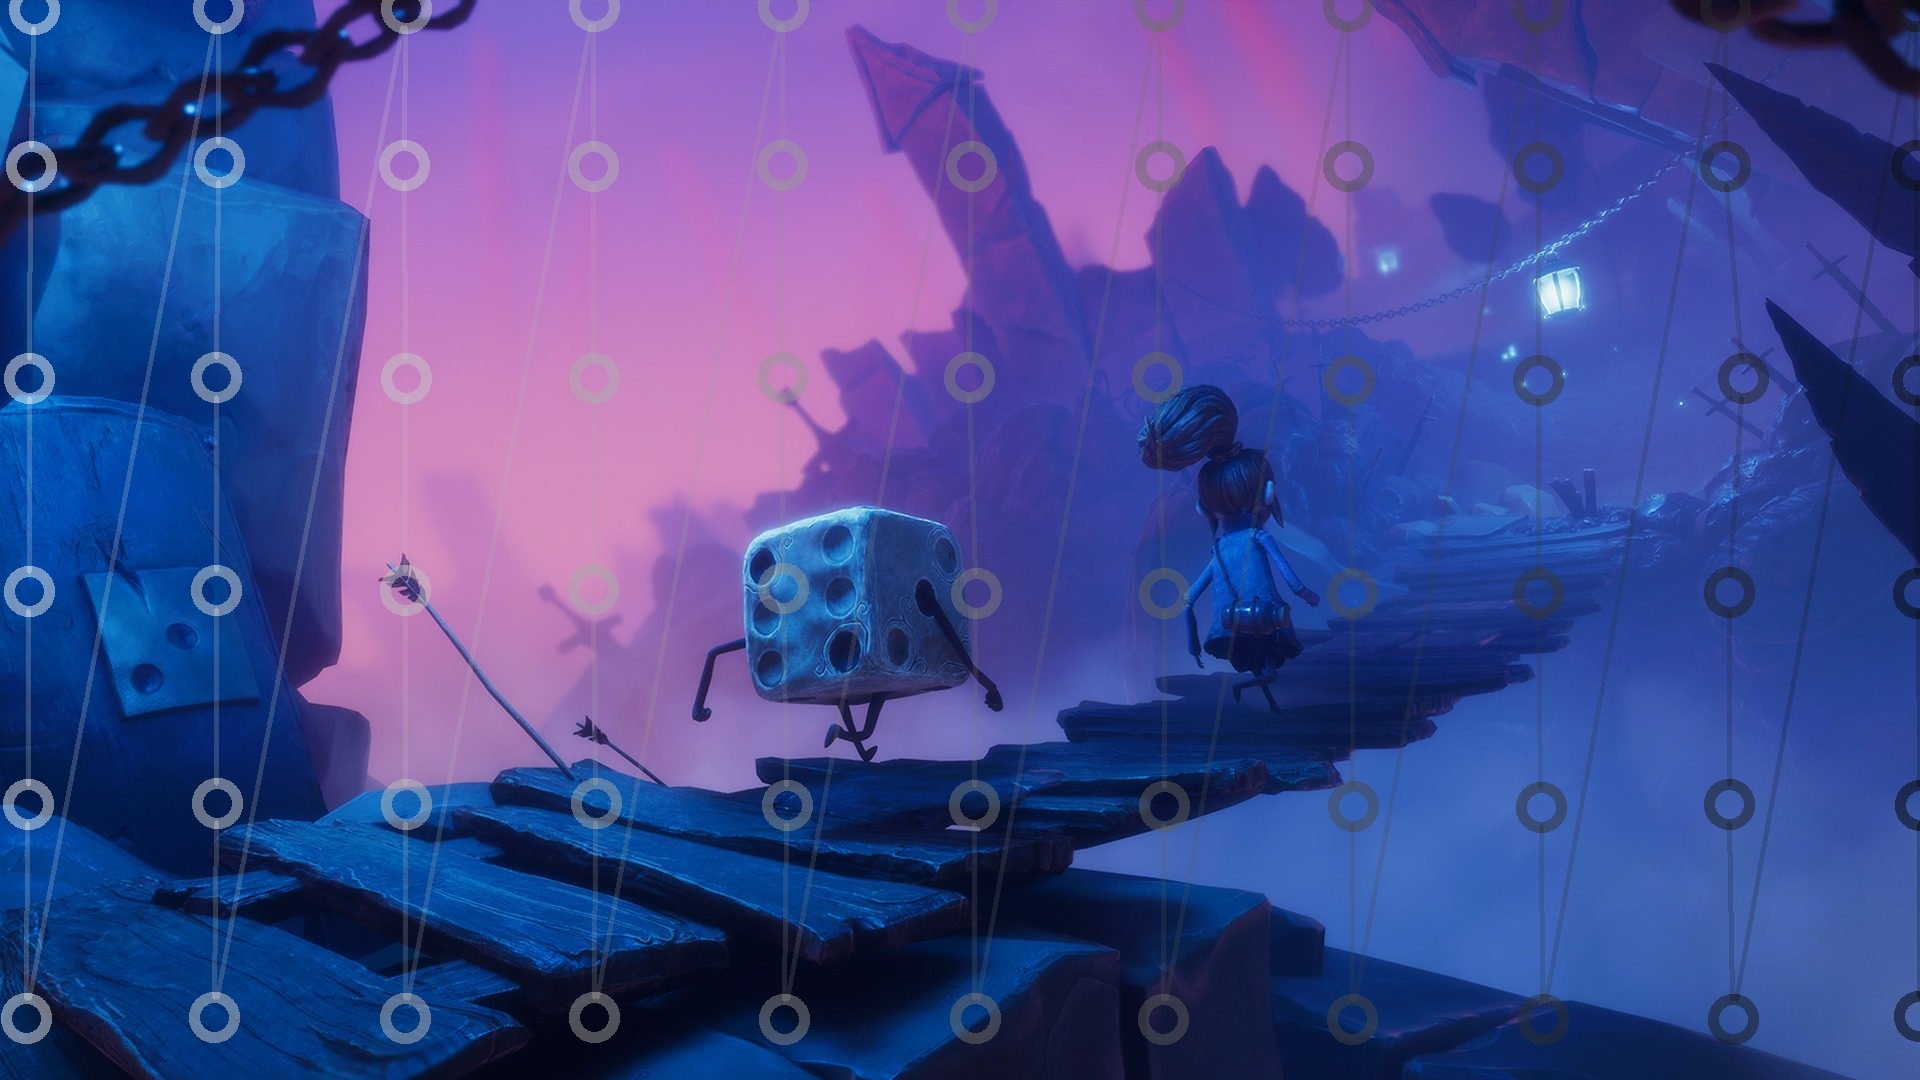
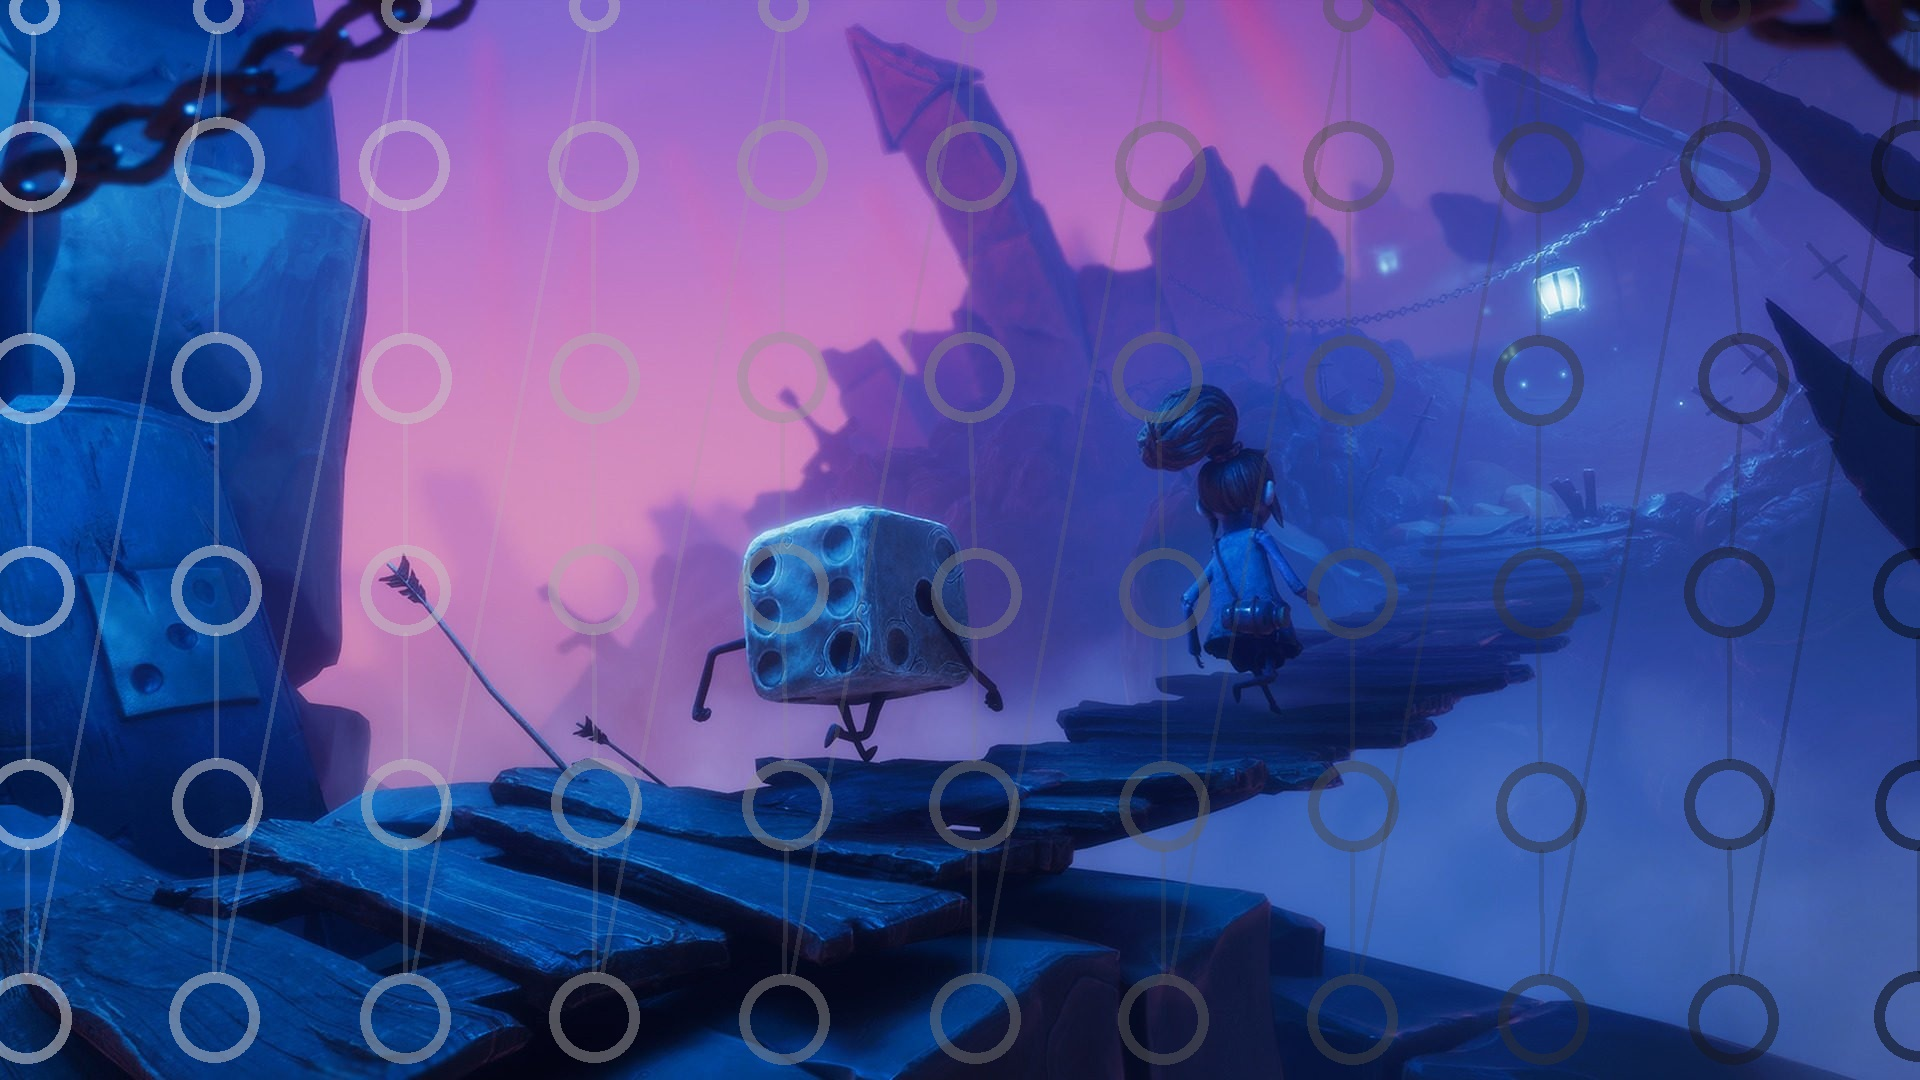
feat: added different circle size for scanpath

diff --git a/scanpath.py b/scanpath.py
@@ -15,6 +15,7 @@ def convert_uv_to_px(uv_data, width, height):
 overlay_circles = image.copy()
 overlay_lines = image.copy()
 alpha_circles = 0.6
+outline_width = 10
 alpha_lines = 0.2
 TEXT_FACE = cv2.FONT_HERSHEY_SIMPLEX
 TEXT_SCALE = 0.8
@@ -23,7 +24,7 @@ TEXT_COLOR = (0, 0, 0)
 
 points_group = {}
 colors = {}
-threshold = 150
+threshold = 50
 order = 0
 
 with open(input_path) as f:
@@ -68,27 +69,45 @@ for key in points_group:
     points_group[key]['middle']['y'] = y
     points_group[key]['diameter'] = 20
     
-    
-# TODO: lepši sposob ako spraviť velkosť kruhu na zaklade počtu bodov v skupine
-# TODO: preto pokial mam jeden tak ono to nejako dojebe
-# q1_index = int(len(points_group) * 0.25)
-# q2_index = int(len(points_group) * 0.5)
-# q3_index = int(len(points_group) * 0.75)
 
-# q1 = points_group_keys[:q1_index]
-# q2 = points_group_keys[q1_index:q2_index]
-# q3 = points_group_keys[q2_index:q3_index]
-# q4 = points_group_keys[q3_index:]
+different_lengths = {}
+for key in points_group:
+    if not different_lengths.get(len(points_group[key]['points'])):
+        different_lengths[len(points_group[key]['points'])] = [key]
+    else:
+        different_lengths[len(points_group[key]['points'])].append(key)
 
-# def setDiameter(array, diameter):
-#     for key in array:
-#         points_group[key]['diameter'] = diameter
+diameters = {1: 20, 2: 40, 3: 60, 4: 80}
+if len(different_lengths) == 1:
+    for key in points_group:
+        points_group[key]['diameter'] = diameters[1]
+elif len(different_lengths) == 2:
+    for key in different_lengths:
+        for index in different_lengths[key]:
+            points_group[index]['diameter'] = diameters[key]
+elif len(different_lengths) == 3:
+    for key in different_lengths:
+        for index in different_lengths[key]:
+            points_group[index]['diameter'] = diameters[key]
+elif len(different_lengths) == 4:
+    for key in different_lengths:
+        for index in different_lengths[key]:
+            points_group[index]['diameter'] = diameters[key]
+else:
+    first_key = different_lengths[list(different_lengths)[0]]
+    last_key = different_lengths[list(different_lengths)[-1]]
+    remaining_keys = list(different_lengths)[1:-1]
+    first_middle_keys = remaining_keys[:len(remaining_keys) // 2]
+    last_middle_keys = remaining_keys[len(remaining_keys) // 2:]
+    for key in first_key:
+        points_group[key]['diameter'] = diameters[1]
+    for key in last_key:
+        points_group[key]['diameter'] = diameters[4]
+    for key in first_middle_keys:
+        points_group[key]['diameter'] = diameters[2]
+    for key in last_middle_keys:
+        points_group[key]['diameter'] = diameters[3]
         
-
-# setDiameter(q1, 30)
-# setDiameter(q2, 50)
-# setDiameter(q3, 70)
-# setDiameter(q4, 100)
 
 points_group = dict(sorted(points_group.items(), key=lambda item: item[1]['index'], reverse=False))
 points_group_keys = list(points_group)
@@ -108,26 +127,25 @@ for key in range(0, len(points_group) - 1):
 
     distance = sqrt((x2 - x1)**2 + (y2 - y1)**2)
 
-    # TODO: pridať k riadiusu širku outline kruhu .. lebo to ide cez neho a vidieť to
     if distance >= (radius1 + radius2):   
         angle = atan2(y2 - y1, x2 - x1)
-        point1_x = x1 + radius1 * cos(angle)
-        point1_y = y1 + radius1 * sin(angle)
-        point2_x = x2 - radius2 * cos(angle)
-        point2_y = y2 - radius2 * sin(angle)
+        point1_x = x1 + (radius1 + outline_width // 2) * cos(angle)
+        point1_y = y1 + (radius1 + outline_width // 2) * sin(angle)
+        point2_x = x2 - (radius2 + outline_width // 2) * cos(angle)
+        point2_y = y2 - (radius2 + outline_width // 2) * sin(angle)
         cv2.line(overlay_lines, (int(point1_x), int(point1_y)), (int(point2_x), int(point2_y)), colors[list(points_group)[key]], 4)
     
     text_size, _ = cv2.getTextSize(str(points_group[points_group_keys[key]]['index']), TEXT_FACE, TEXT_SCALE, TEXT_THICKNESS)
     text_origin = (int(x1 - text_size[0] / 2), int(y1 + text_size[1] / 2))
     
     #cv2.circle(overlay_circles, (x1, y1), radius1, colors[points_group_keys[key]], -1)
-    cv2.circle(overlay_circles, (x1, y1), radius1, colors[points_group_keys[key]], 10)
+    cv2.circle(overlay_circles, (x1, y1), radius1, colors[points_group_keys[key]], outline_width)
     #cv2.putText(overlay_circles, str(points_group[points_group_keys[key]]['index']), text_origin, TEXT_FACE, TEXT_SCALE, TEXT_COLOR, TEXT_THICKNESS, cv2.LINE_AA)
     if key == len(points_group) - 2:
         text_size, _ = cv2.getTextSize(str(points_group[points_group_keys[key]]['index']), TEXT_FACE, TEXT_SCALE, TEXT_THICKNESS)
         text_origin = (int(x2 - text_size[0] / 2), int(y2 + text_size[1] / 2))
         #cv2.circle(overlay_circles, (x2, y2), radius2, colors[points_group_keys[key + 1]], -1)
-        cv2.circle(overlay_circles, (x2, y2), radius2, colors[points_group_keys[key + 1]], 10)
+        cv2.circle(overlay_circles, (x2, y2), radius2, colors[points_group_keys[key + 1]], outline_width)
         #cv2.putText(overlay_circles, str(points_group[points_group_keys[key + 1]]['index']), text_origin, TEXT_FACE, TEXT_SCALE, TEXT_COLOR, TEXT_THICKNESS, cv2.LINE_AA)
 
 

diff --git a/generate_random_uv.py b/generate_random_uv.py
@@ -1,0 +1,14 @@
+from random import uniform
+import csv
+
+def randomUVCoords(amount=200):
+    uv_coords = []
+    for i in range(amount):
+        uv_coords.append((uniform(0, 1), uniform(0, 1)))
+
+    with open('./coordinates/random_uv_coords.csv', 'w') as f:
+        for uv in uv_coords:
+            f.write(f'{uv[0]},{uv[1]}\n')
+
+if __name__ == '__main__':
+    randomUVCoords()
